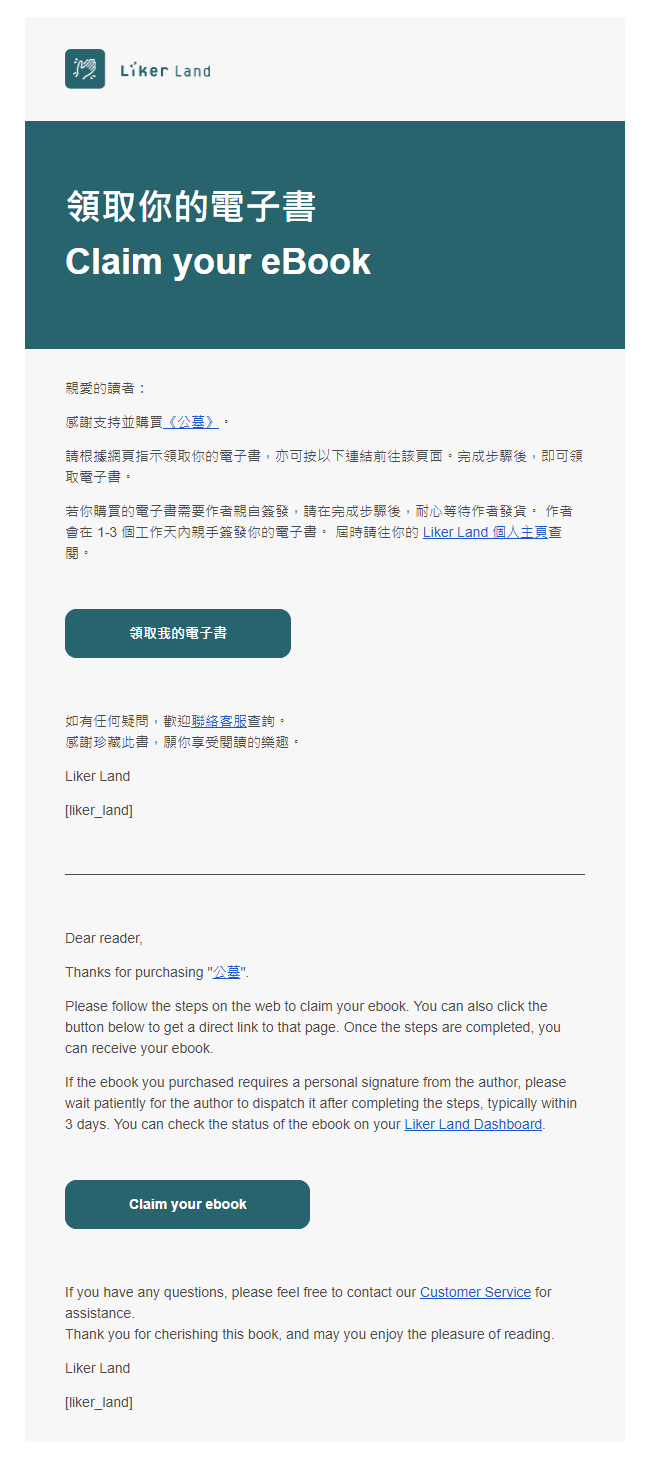
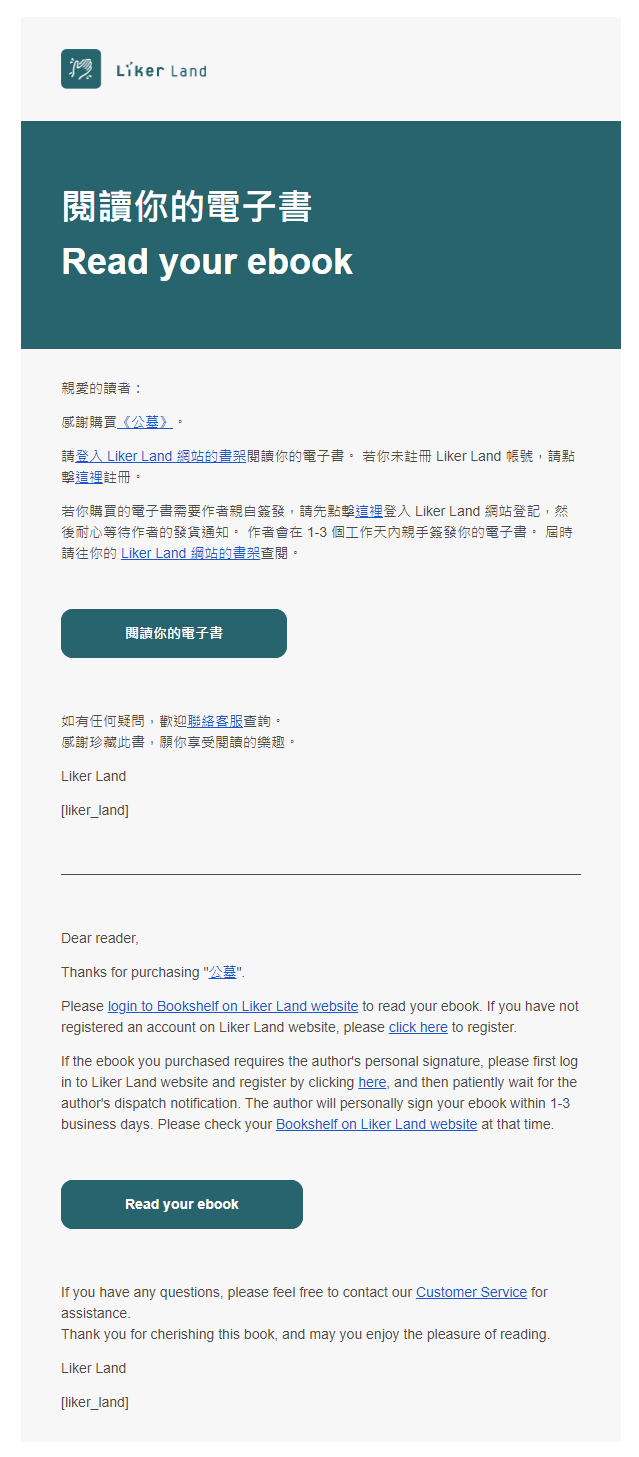
GITBOOK-4692: 購買電子書

diff --git a/depub/ebook/README.md b/depub/ebook/README.md
@@ -48,9 +48,11 @@ description: 如何購買電子書
 
 ## 步驟五：成功購買電子書 <a href="#step-5" id="step-5"></a>
 
-彈出感謝你的支持與購買頁面，點「開始領取我的電子書」領取電子書。與此同時你的電郵亦會收到領書電郵。
+彈出感謝你的支持與購買頁面，點「下一步」領取電子書。與此同時你的電郵亦會收到領書電郵。
 
 <figure><img src="../../.gitbook/assets/Collect NFT Book 4.png" alt=""><figcaption><p>點「開始領取我的電子書」</p></figcaption></figure>
+
+點「閱讀你的電子書」亦可開始領書。
 
 <figure><img src="../../.gitbook/assets/Collect NFT Book 5.png" alt=""><figcaption><p>收到電郵過知</p></figcaption></figure>
 
